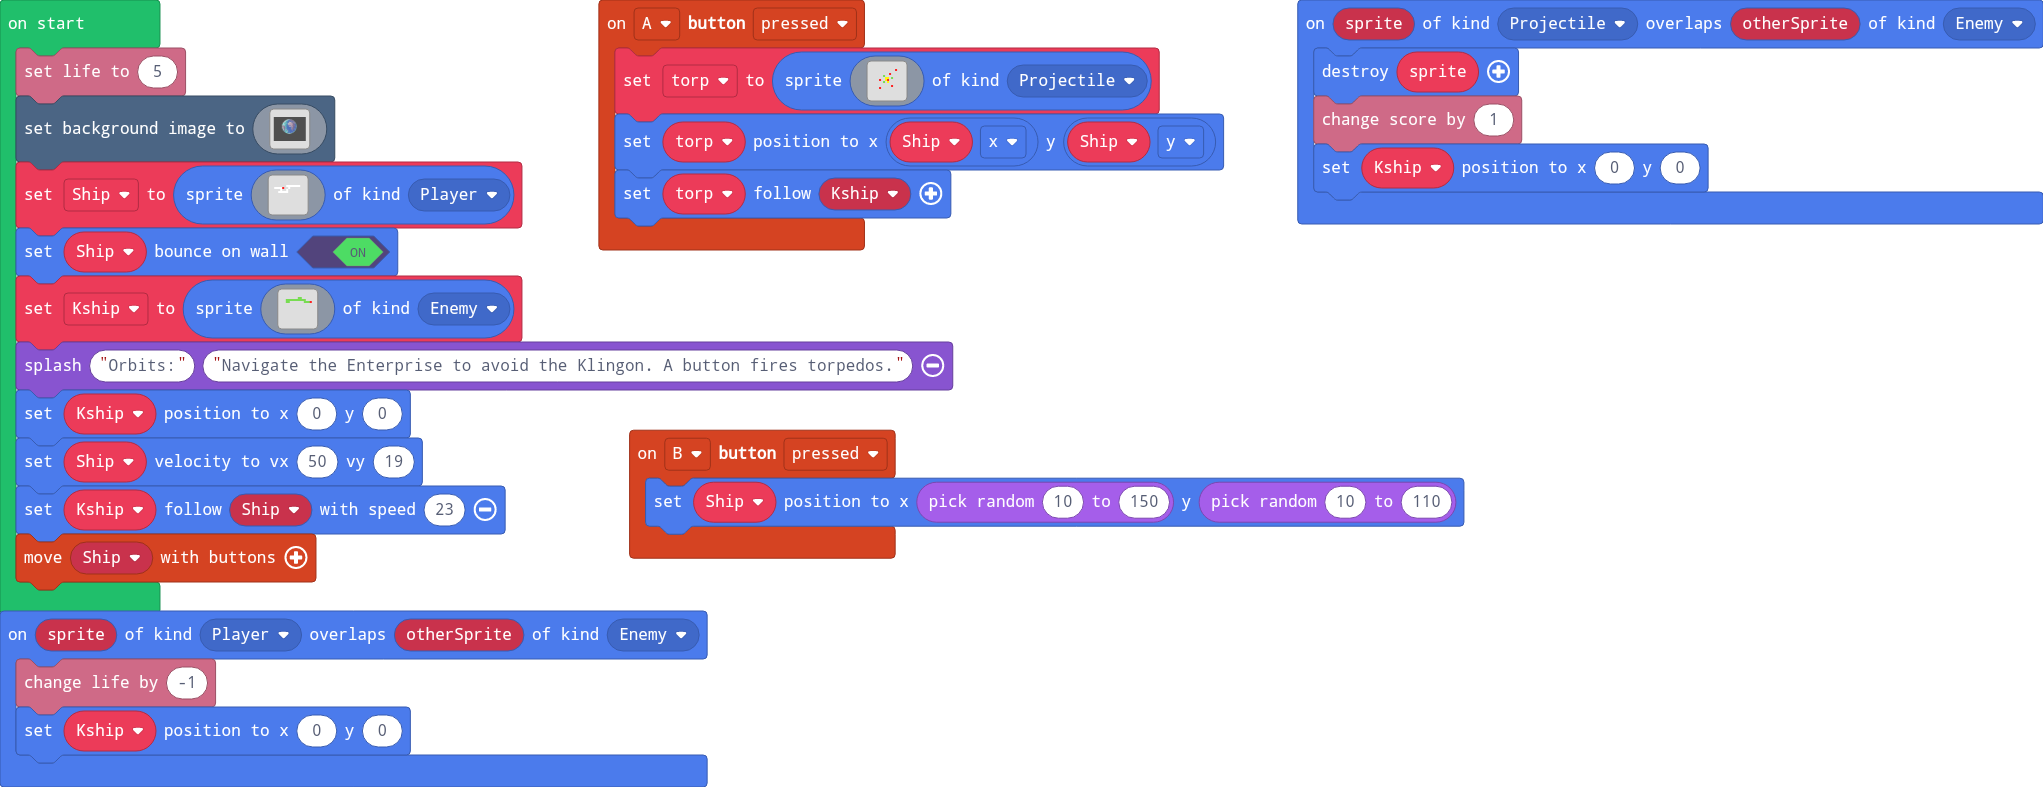
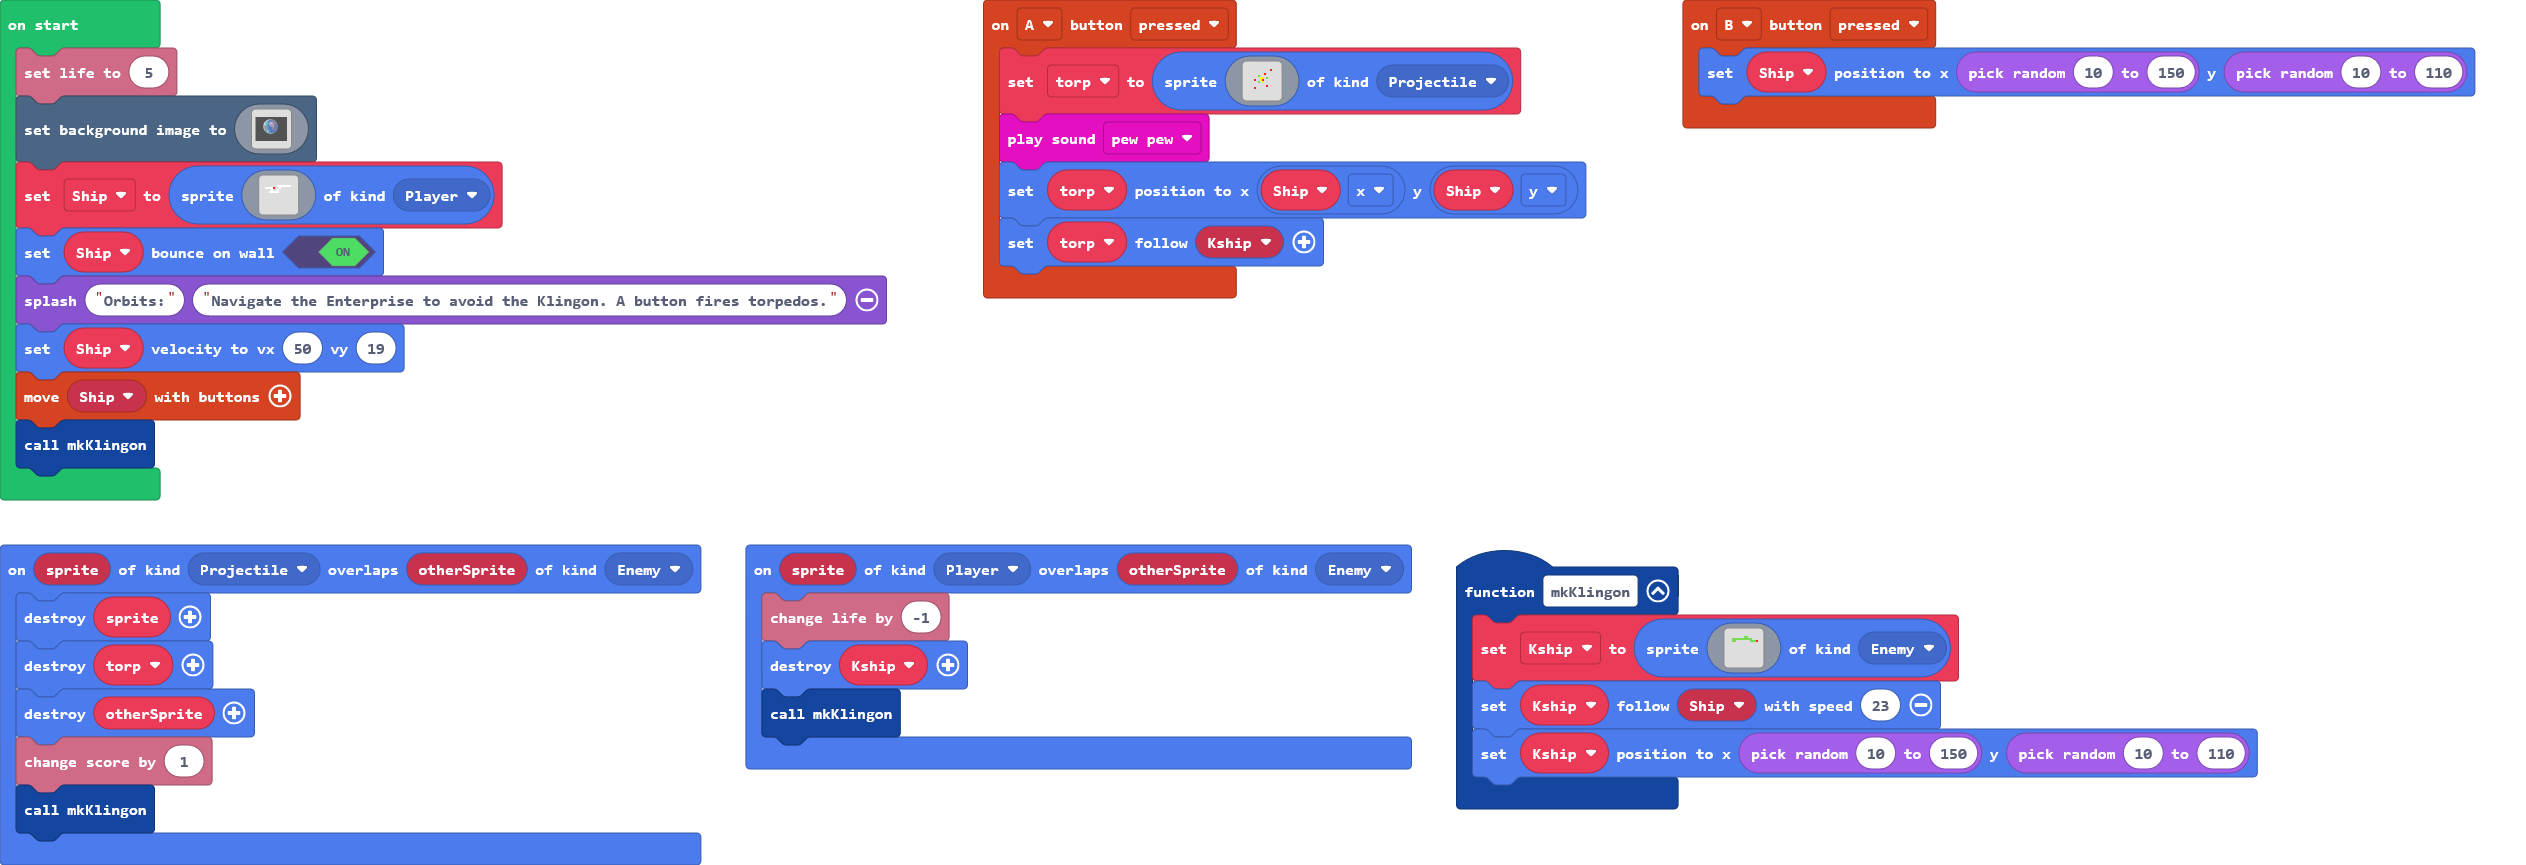
Update main.blocks, main.ts

diff --git a/main.ts b/main.ts
@@ -20,20 +20,46 @@ controller.A.onEvent(ControllerButtonEvent.Pressed, function () {
         . . . . . . . . . . . . . . . . 
         . . . . . . . . . . . . . . . . 
         `, SpriteKind.Projectile)
+    music.pewPew.play()
     torp.setPosition(Ship.x, Ship.y)
     torp.follow(Kship)
 })
+function mkKlingon () {
+    Kship = sprites.create(img`
+        . . . . . . . . . . . . . . . . 
+        . . . . . . . . . . . . . . . . 
+        . . . . . . . . 7 7 . . . . . . 
+        . . 7 7 7 7 7 7 7 7 7 7 . . . . 
+        . . 7 7 . . . . . . . 7 7 7 2 . 
+        . . . . . . . . . . . . . . . . 
+        . . . . . . . . . . . . . . . . 
+        . . . . . . . . . . . . . . . . 
+        . . . . . . . . . . . . . . . . 
+        . . . . . . . . . . . . . . . . 
+        . . . . . . . . . . . . . . . . 
+        . . . . . . . . . . . . . . . . 
+        . . . . . . . . . . . . . . . . 
+        . . . . . . . . . . . . . . . . 
+        . . . . . . . . . . . . . . . . 
+        . . . . . . . . . . . . . . . . 
+        `, SpriteKind.Enemy)
+    Kship.follow(Ship, 23)
+    Kship.setPosition(randint(10, 150), randint(10, 110))
+}
 sprites.onOverlap(SpriteKind.Projectile, SpriteKind.Enemy, function (sprite, otherSprite) {
     sprite.destroy()
+    torp.destroy()
+    otherSprite.destroy()
     info.changeScoreBy(1)
-    Kship.setPosition(0, 0)
+    mkKlingon()
 })
 sprites.onOverlap(SpriteKind.Player, SpriteKind.Enemy, function (sprite, otherSprite) {
     info.changeLifeBy(-1)
-    Kship.setPosition(0, 0)
+    Kship.destroy()
+    mkKlingon()
 })
-let torp: Sprite = null
 let Kship: Sprite = null
+let torp: Sprite = null
 let Ship: Sprite = null
 info.setLife(5)
 scene.setBackgroundImage(img`
@@ -177,26 +203,7 @@ Ship = sprites.create(img`
     . . . . . . . . . . . . . . . . 
     `, SpriteKind.Player)
 Ship.setBounceOnWall(true)
-Kship = sprites.create(img`
-    . . . . . . . . . . . . . . . . 
-    . . . . . . . . . . . . . . . . 
-    . . . . . . . . 7 7 . . . . . . 
-    . . 7 7 7 7 7 7 7 7 7 7 . . . . 
-    . . 7 7 . . . . . . . 7 7 7 2 . 
-    . . . . . . . . . . . . . . . . 
-    . . . . . . . . . . . . . . . . 
-    . . . . . . . . . . . . . . . . 
-    . . . . . . . . . . . . . . . . 
-    . . . . . . . . . . . . . . . . 
-    . . . . . . . . . . . . . . . . 
-    . . . . . . . . . . . . . . . . 
-    . . . . . . . . . . . . . . . . 
-    . . . . . . . . . . . . . . . . 
-    . . . . . . . . . . . . . . . . 
-    . . . . . . . . . . . . . . . . 
-    `, SpriteKind.Enemy)
 game.splash("Orbits:", "Navigate the Enterprise to avoid the Klingon. A button fires torpedos.")
-Kship.setPosition(0, 0)
 Ship.setVelocity(50, 19)
-Kship.follow(Ship, 23)
 controller.moveSprite(Ship)
+mkKlingon()
